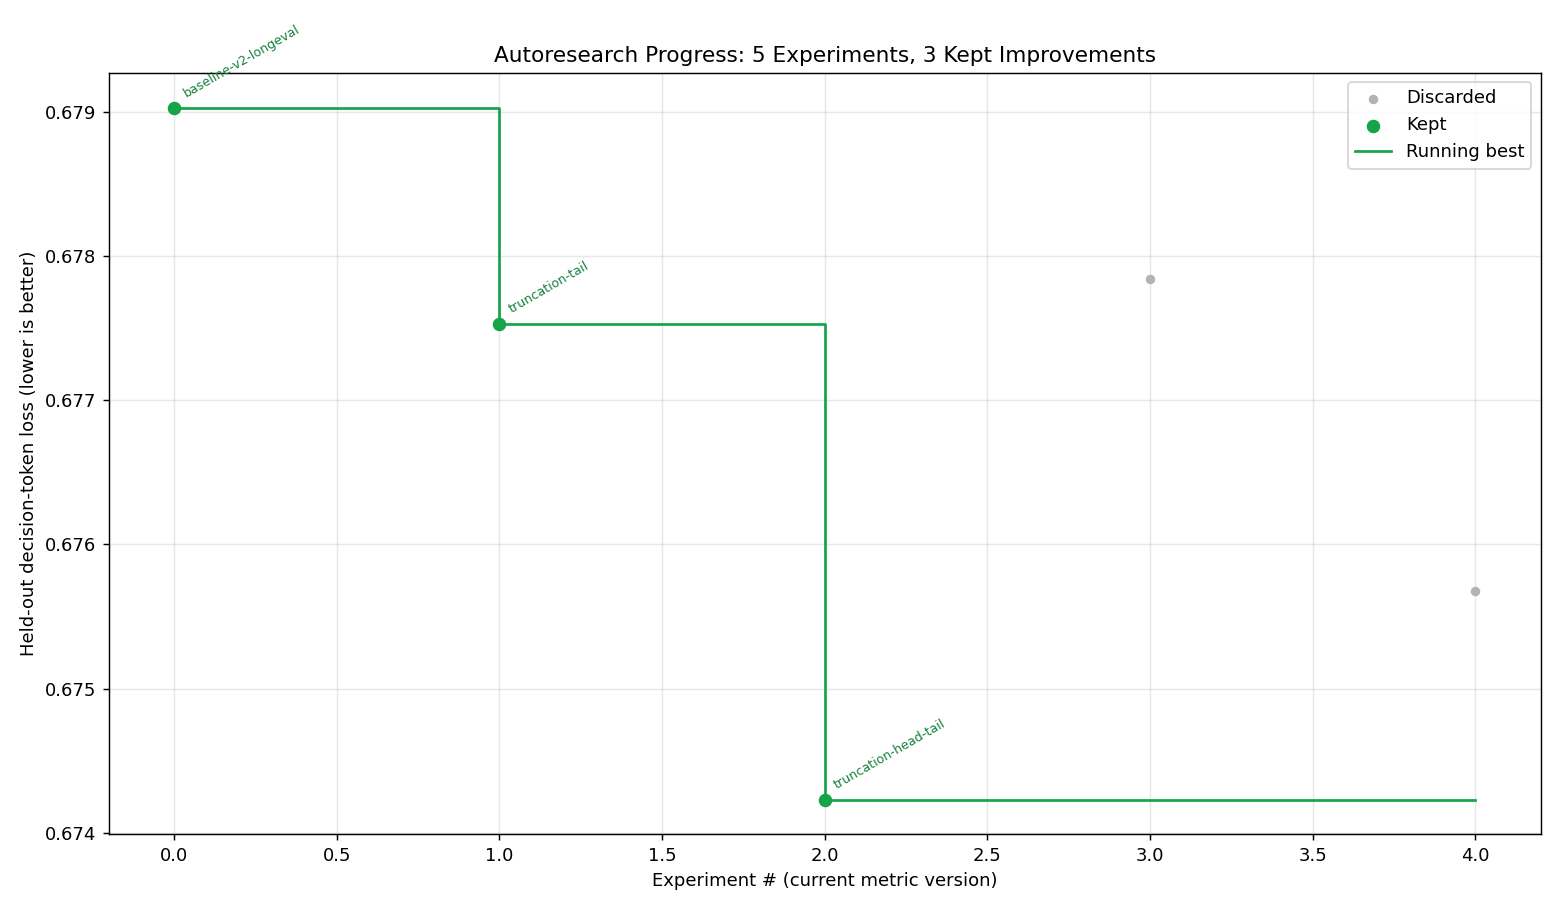
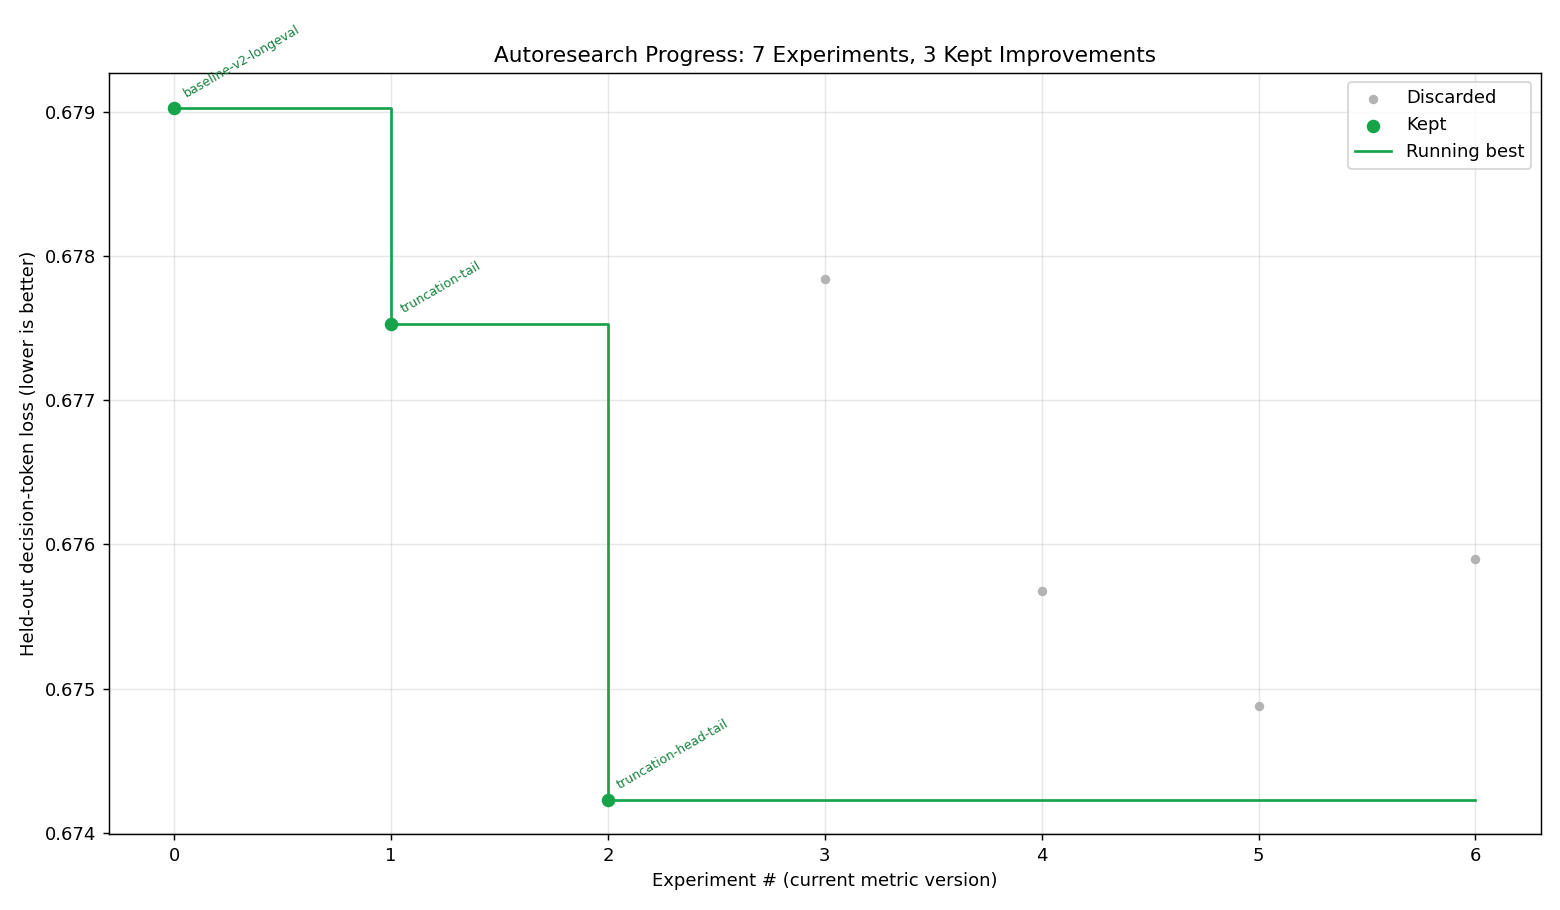
v2: head_tail context bracket closed (5120 optimal); discovered ~0.001 noise floor
0024 & 0025 were the same effective config yet differed by 0.001 -> v2 metric noise
~0.001 (NEFTune+CUDA nondeterminism); sub-0.0015 deltas are noise, head_tail's
-0.0033 is real. Strategic correction: train_seconds=1020 left ~6min of the 30-min
budget unused; queued 0027 (train 1260) + 0028 (train 1320) to use the full budget
on the undertrained model.

diff --git a/RESEARCH_LOG.md b/RESEARCH_LOG.md
@@ -249,4 +249,21 @@ Since long traces like more context and head_tail is the winner, test head_tail 
 (0025) and 7168 (0026) vs 5120: does giving head_tail more coverage capture the long-bucket
 gain without losing too many steps?
 
+### NOISE FLOOR discovered + context bracket closed
+- **0024** and **0025** turned out to be the *same* effective config (head_tail + ctx6144,
+  both base=best) yet scored **0.67488 vs 0.6759** — a 0.001 gap. So the **v2 metric has
+  ~0.001 run-to-run noise** (NEFTune embedding noise + CUDA nondeterminism). Implication:
+  treat deltas < ~0.0015 as noise. head_tail's −0.0033 is real (~3×); tail's −0.0015 is
+  borderline.
+- head_tail context: 5120 stays best; 6144 (0024/0025) and (0026 pending) are within noise.
+  **Context bracket closed at 5120.**
+- **Strategic correction:** I conservatively set train_seconds=1020 (≈24 min total) but the
+  budget is 30 min and v2 eval is only ~7 min — I've been leaving ~6 min of training unused
+  every run, and the model is undertrained (76 steps). The biggest remaining *real* lever is
+  to USE THE FULL BUDGET for training.
+
+### exp 0027 / 0028 — use the full 30-min budget for training
+0027 train_seconds=1260, 0028 train_seconds=1320 (total ≈29–30 min). More steps on an
+undertrained model should give an above-noise drop across all buckets.
+
 <!-- next entries appended at each steering check-in -->

diff --git a/EXPERIMENTS.md b/EXPERIMENTS.md
@@ -36,5 +36,7 @@ decision-loss curve).
 | 0021 | truncation-head-tail | Keep goal+recent context, drop the middle (head_tail) -- trains on both the goal setup ... | 0.67423 | decision_loss_v2 | ✅ | 76 | 1021.4 |
 | 0022 | late-weight-v2 | Re-test late-token loss weighting (1->2 ramp) under v2: upweighting late decisions shou... | 0.67784 | decision_loss_v2 |  | 75 | 1020.4 |
 | 0023 | ctx-8192-v2 | Re-test long context under v2: train ctx ->8192 (more context coverage, fewer steps). D... | 0.67568 | decision_loss_v2 |  | 55 | 1037.6 |
+| 0024 | ctx-6144-v2 | Intermediate context under v2: ctx ->6144 to bracket the v2-optimal training context (5... | 0.67488 | decision_loss_v2 |  | 66 | 1028.4 |
+| 0025 | headtail-ctx6144 | head_tail wins + long traces want more context: test head_tail at ctx 6144 (vs 5120). C... | 0.67590 | decision_loss_v2 |  | 66 | 1027.5 |
 
-_23 experiments logged; 16 on the v1 (head@8192) curve, 5 on the v2 (long-horizon, to 16384) curve, 13 kept improvements total._
+_25 experiments logged; 16 on the v1 (head@8192) curve, 7 on the v2 (long-horizon, to 16384) curve, 13 kept improvements total._
